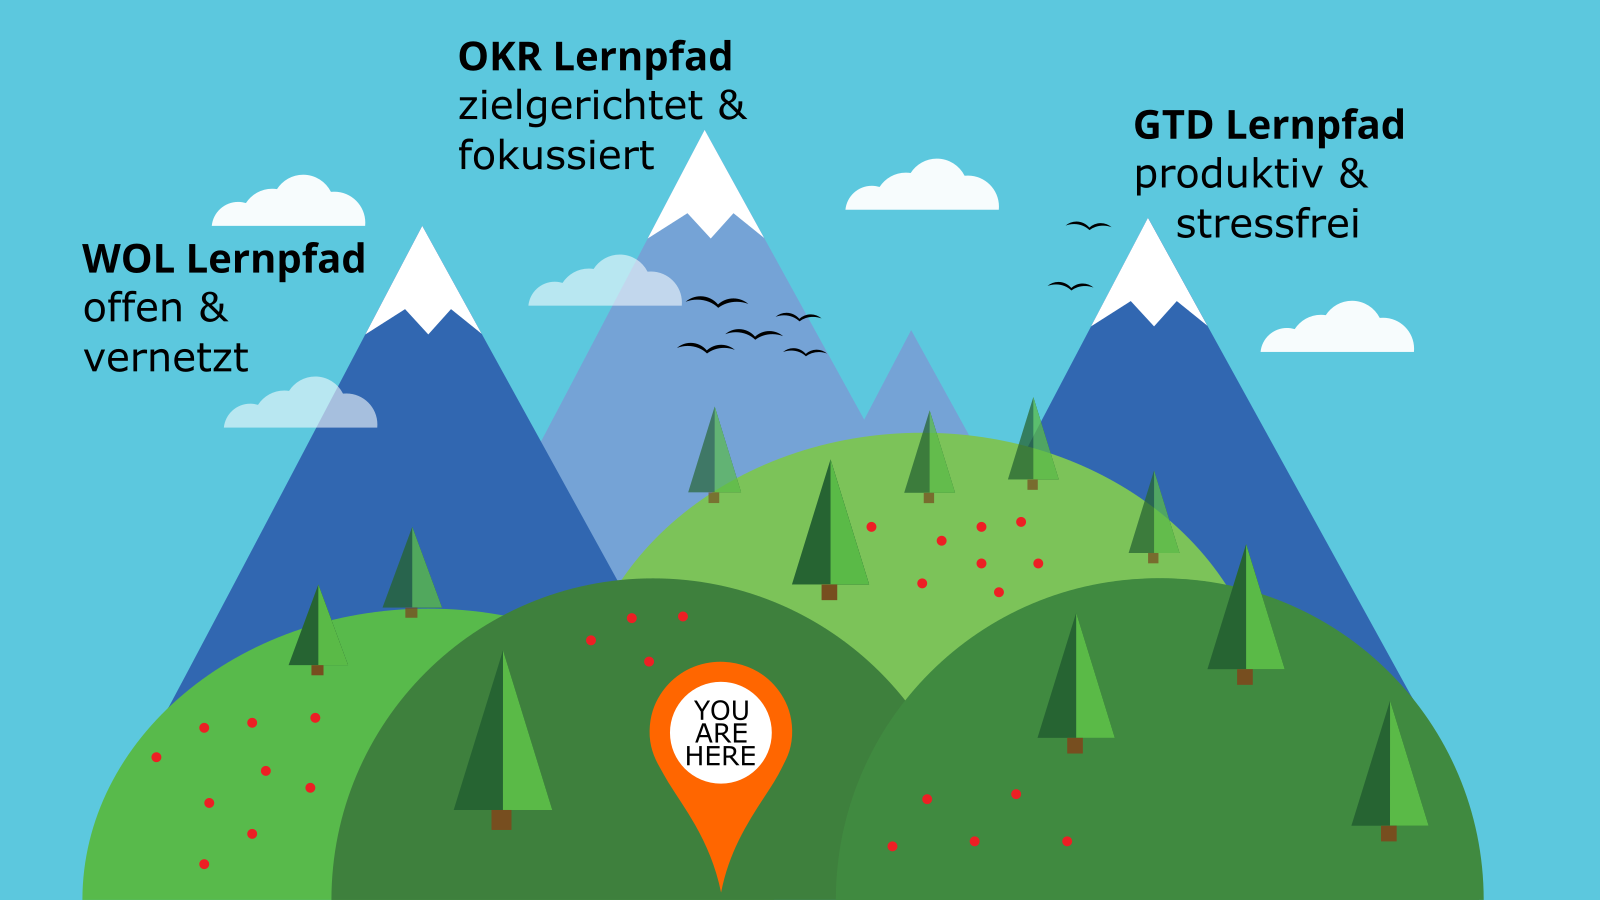
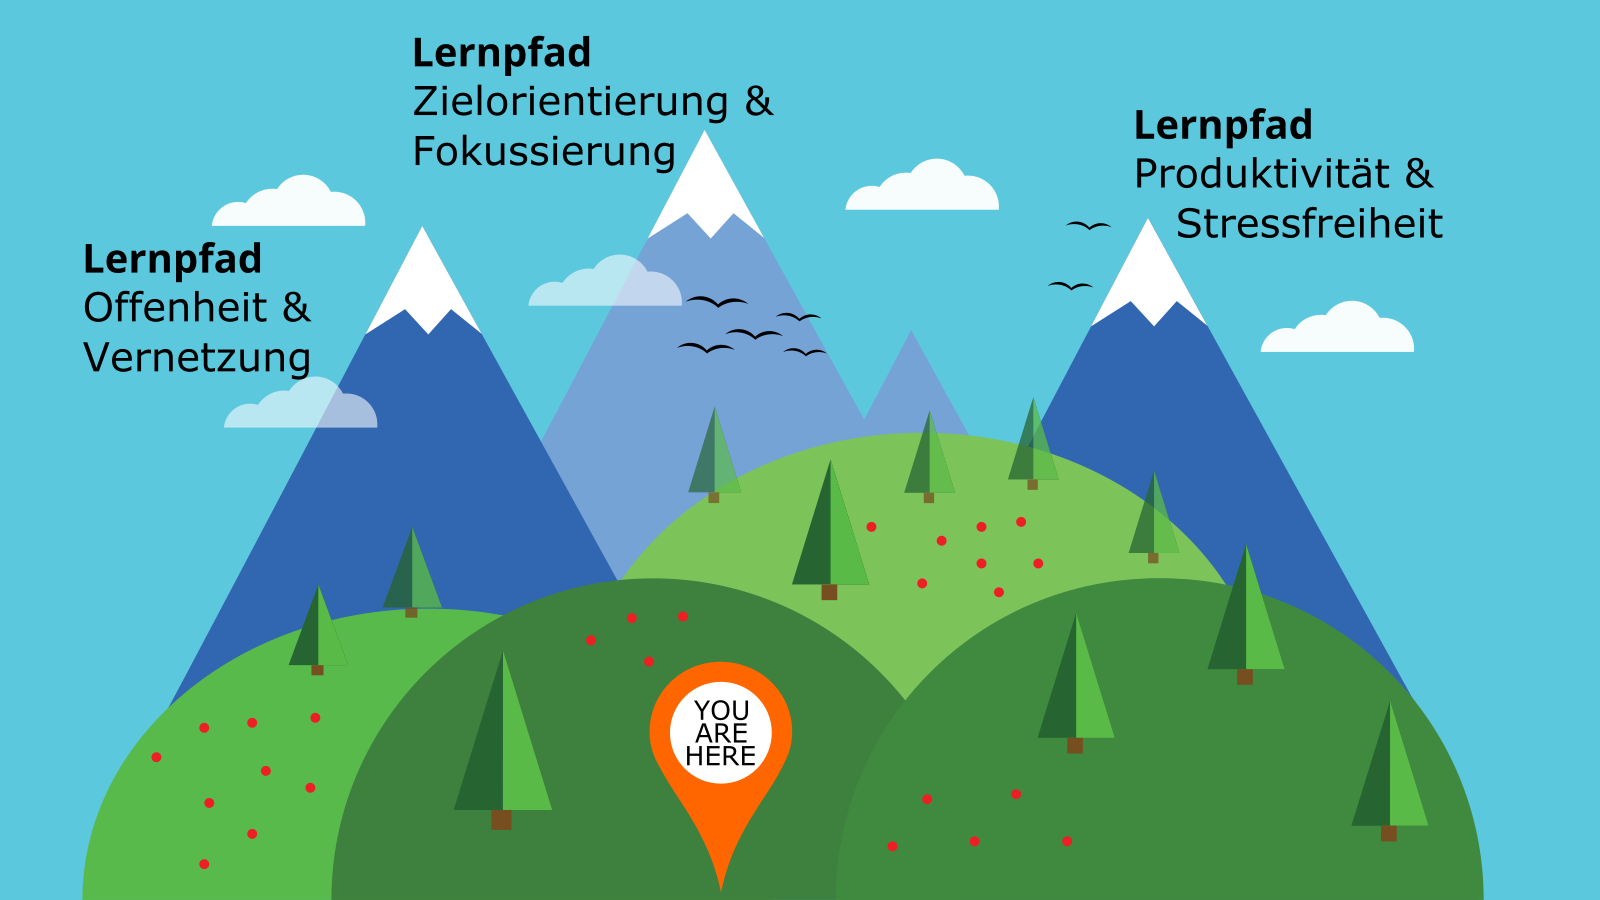
MST Grafik überarbeitet
Kontrast erhöht, Texte verkürzt

diff --git a/de/src/2-0-Lernpfade.md b/de/src/2-0-Lernpfade.md
@@ -1,14 +1,14 @@
 # Lernpfad
 
-Ein lernOS Lernpfad ist eine Zusammenstellung von Übungen (Katas), mit denen du neue Fähigkeiten erlernst und im Lauf der Zeit eine neue Haltung entwickelst. Ein Lernpfad kann innerhalb eines lernOS Sprints durchlaufen werden. lernOS Einsteiger*innen (NOOBs) können zum Start aus einem  drei Lernpfaden OKR, GTD und WOL wählen.
+Ein lernOS Lernpfad ist eine Zusammenstellung von Übungen (Katas), mit denen du neue Fähigkeiten erlernst und im Lauf der Zeit eine neue Haltung entwickelst. Ein Lernpfad kann innerhalb eines lernOS Sprints durchlaufen werden. lernOS Einsteiger*innen (NOOBs) können zum Start aus einem  drei Lernpfaden "Zielorientierung & Vernetzung", "Produktivität & Stressfreiheit" sowie "Offenheit & Vernetzung" wählen.
 
 **ProTip:** für einen Sprint sollte nur einer der drei Lernpfade gewählt werden. Alle drei Lernpfade können in aufeinanderfolgenden Sprints durchlaufen werden. Tandems und Circles sollten Lernpfade nicht mischen, da ihr sonst im Weekly nicht von den Erfahrungen der anderen profitieren könnt.
 
 Kopiert:
 
-Um die einzelnen Methoden zu erlernen, stellt dieser Leitfaden jeweils einen Lernpfad mit Aufgaben und Übungen zur Verfügung. Mit welchen der Lernpfade du beginnst, hängt an deinen Bedürfnissen. Bist du auf der Suche nach Purpose und dem richtigen Ziel, beginne mit dem OKR Lernpfad. Hast du mit Informationsflut und Aufgabenvielfalt zu kämpfen, dann ist der GTD Lernpfad der richtige für dich. Hast du das Gefühl, das Rad ständig neu zu erfinden und nicht auf das kollektive Wissen der Welt zugreifen zu können? Dann beginne mit dem WOL Lernpfad.
+Um die einzelnen Methoden zu erlernen, stellt dieser Leitfaden jeweils einen Lernpfad mit Aufgaben und Übungen zur Verfügung. Mit welchen der Lernpfade du beginnst, hängt an deinen Bedürfnissen. Bist du auf der Suche nach Purpose und dem richtigen Ziel, beginne mit dem Lernpfad Zielorientierung & Fokussierung. Hast du mit Informationsflut und Aufgabenvielfalt zu kämpfen, dann ist der Lernpfad Produktivität & Stressfreiheit der richtige für dich. Hast du das Gefühl, das Rad ständig neu zu erfinden und nicht auf das kollektive Wissen der Welt zugreifen zu können? Dann beginne mit dem Lernpfad Offenheit & Vernetzung.
 
-![lernOS Lernpfade für Einsteiger*innen](C:\Users\SimonDückert\OneDrive - Cogneon GmbH\Dokumente\GitHub\lernos-for-you\de\src\images\lernOS-Lernpfade.png)
+![lernOS Lernpfade für Einsteiger*innen](./images/lernOS-Lernpfade.png)
 
 ## Woche 0
 

diff --git a/de/src/1-3-lernOS-Flow.md b/de/src/1-3-lernOS-Flow.md
@@ -6,7 +6,7 @@ Der lernOS Flow setzt deswegen auf 13-wöchige Zyklen, die in Anlehnung an [Scru
 
 ![lernOS Sprint](images/lernOS-Sprint.png)
 
-Der lernOS Flow ist ein Arbeitsablauf, den Wissensarbeiter_innen und Lebenslang Lernende für ihr Selbstorganisation verwenden können. Hierfür wird auf drei Praxis-erprobte Methoden zurückgegriffen: 
+Der lernOS Flow ist ein Arbeitsablauf, den Wissensarbeiter_innen und Lebenslang Lernende für ihr Selbstorganisation verwenden können. Hierfür wird auf Praxis-erprobte Methoden und Ansätze zurückgegriffen: 
 
 1. **Objektives & Key Results (OKR)** für zielgerichtetes und fokussiertes Arbeiten und Lernen durch die Definition von Lernzielen und gewünschten Ergebnissen (s.a. [OKR](https://rework.withgoogle.com/guides/set-goals-with-okrs/steps/introduction/) bei Google).
 2. **Getting Things Done (GTD)** für produktives und stressfreies Arbeiten und Lernen, indem die Selbstorganisation durch einen 5-Schritte-Prozess strukturiert wird (s.a. [GTD](https://gettingthingsdone.com) von David Allen).

diff --git a/de/src/2-3-0-Lernpfad-PS.md b/de/src/2-3-0-Lernpfad-PS.md
@@ -1,8 +1,8 @@
-## GTD Lernpfad
+## Lernpfad Produktivität & Stressfreiheit
 
 Sich selbst und seine Arbeitsweise zu organisieren und zu optimieren kann sehr motivierend sein. Viele Menschen stehen heute vor dem Problem, im Hamsterrad der Tages- und Routinetätigkeiten zu versinken und keine Zeit für wertschöpfende Dinge zu haben, geschweigen denn sich Gedanken darüber zu machen, wohin sie sich mittel- bis langfristig entwickeln wollen. 
 
-Alle Elemente von GTD werden schon lange erfolgreich eingesetzt. David Allen hat einige dieser Methoden so zusammengestellt und kombiniert, das die Wirkung größer ist als die Summe seiner Teile.
+Der Lernpfad setzt auf der Idee von Getting Things Done (GTD) von David Allen auf, die schon lange erfolgreich eingesetzt wird. David Allen hat einige dieser Methoden so zusammengestellt und kombiniert, das die Wirkung größer ist als die Summe seiner Teile.
 
 GTD ist eine Möglichkeit sich in unserer VUCA-Welt die Freiräume zu schaffen, um uns fit für die Zukunft zu machen. 
 

diff --git a/de/src/2-1-0-Lernpfad-OV.md b/de/src/2-1-0-Lernpfad-OV.md
@@ -1,8 +1,8 @@
-## WOL Lernpfad
+## Lernpfad Offenheit & Vernetzung
 
-Sein Wissen mit anderen offen zu teilen und von dem Wissen anderer zu profitieren hilft, dass nicht alle das Rad immer wieder neu erfinden müssen. Gemäß der [Working Out Loud Methode](https://workingoutloud.com/en/circle-guides) von John Stepper kannst du, lernen
+Sein Wissen mit anderen offen zu teilen und von dem Wissen anderer zu profitieren hilft, dass nicht alle das Rad immer wieder neu erfinden müssen. In diesem Lernpfad wirst du
 
-1. Dir ein eigenes Lernziel für den Sprint zu stecken.
+1. Dir ein eigenes Lernziel für den Sprint stecken.
 2. Menschen und Communities identifizieren, die mit deinem Ziel zu tun haben.
 3. Beiträge veröffentlichen und Wertschätzung zeigen, um dir systematisch und zielorientiert ein Netzwerk aufzubauen.
 4. Die Unterstützung deines neuen Netzwerks nutzen, um deine Ziele schneller und einfacher zu erreichen.

diff --git a/de/src/2-2-0-Lernpfad-ZF.md b/de/src/2-2-0-Lernpfad-ZF.md
@@ -1,4 +1,4 @@
-## OKR Lernpfad
+## Lernpfad Zielorientierung & Fokussierung
 
 Sich selbst ambitionierte Ziele (Objectives) zu stecken und greifbare Ergebnisse (Key Results) zu definieren, kann sehr motivierend sein. Viele Menschen haben eine lange Man-Müsste-Mal-Liste, gehen dieses Ziele aber nicht richtig an. Je länger die Liste, desto größer die Hürde etwas anzupacken. Google verwendet daher die einfache Methode Objectives & Key Results (OKR) bei der die Ziele der nächsten drei Monate [nach folgenden Kriterien](https://rework.withgoogle.com/guides/set-goals-with-okrs/steps/introduction/) definiert werden:
 

diff --git a/de/src/1-1-Lebenslanges-Lernen-und-Wissensarbeit.md b/de/src/1-1-Lebenslanges-Lernen-und-Wissensarbeit.md
@@ -1,4 +1,4 @@
-## Wissensarbeit und Lebenslanges Lernen
+## Lebenslanges Lernen und Wissensarbeit
 
 Wir befinden uns gerade im sehr dynamischen Übergang von Industrie- zur [Wissensgesellschaft](https://de.wikipedia.org/wiki/Wissensgesellschaft), die dadurch gekennzeichnet ist, dass Regeln und Normen durch Lernprozesse kontinuierlich in Frage gestellt werden (s.a. [Merkmale der Wissensgesellschaft](https://www.researchgate.net/publication/283061140_Merkmale_der_Wissensgesellschaft)). Als Einzelpersonen können wir in dieser Gesellschaft durch Lernen erfolgreich sein und zum Wohlergehen aller beitragen.
 

diff --git a/de/src/1-4-lernOS-Workplace.md b/de/src/1-4-lernOS-Workplace.md
@@ -4,7 +4,7 @@ Beim Begriff des modernen Lern- und Arbeitsortest denken viele sofort an den "Di
 
 > A fool with a tool is still a fool (Ron Weinstein)
 
-### Mindset, Skillset & Toolset statt nur Toolset
+### Mindset, Skillset & Toolset
 
 Wenn du an die Gestaltung der eigenen Lernumgebung oder des eigenen Wissenarbeitsplatzes gehst ist vielmehr eine ausgewogene Betrachtung von drei Bereichen wichtig:
 
